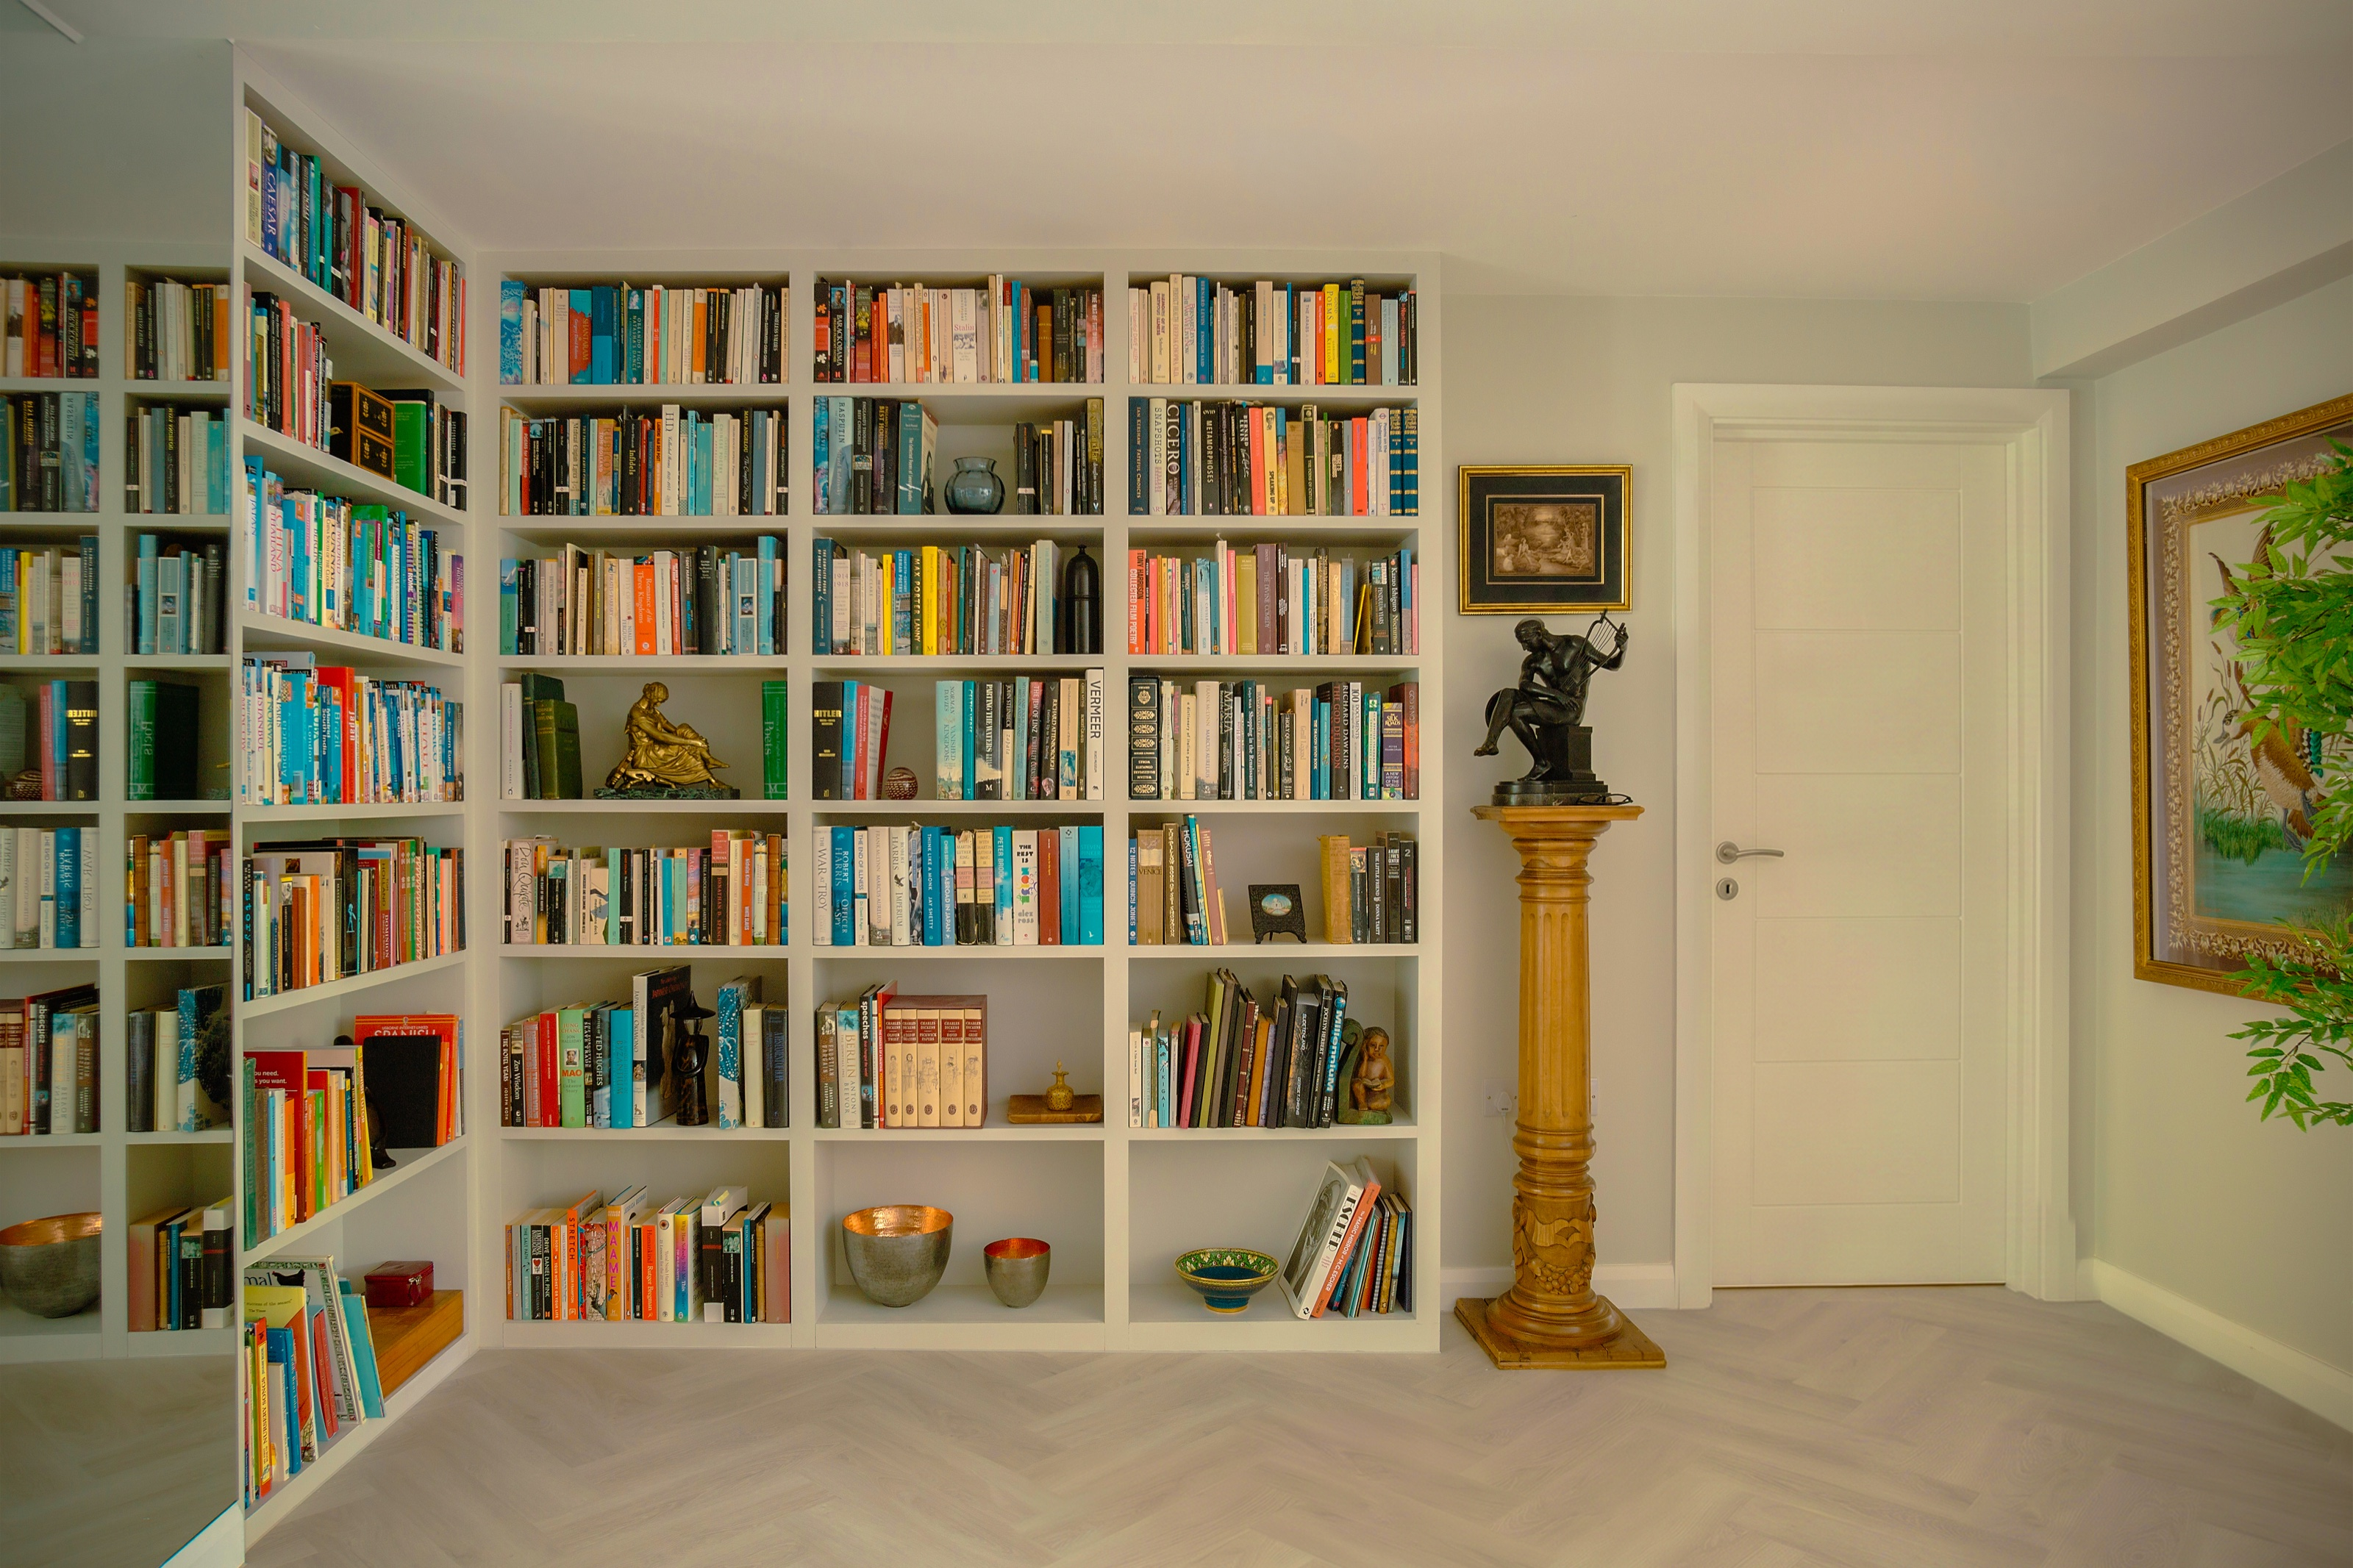
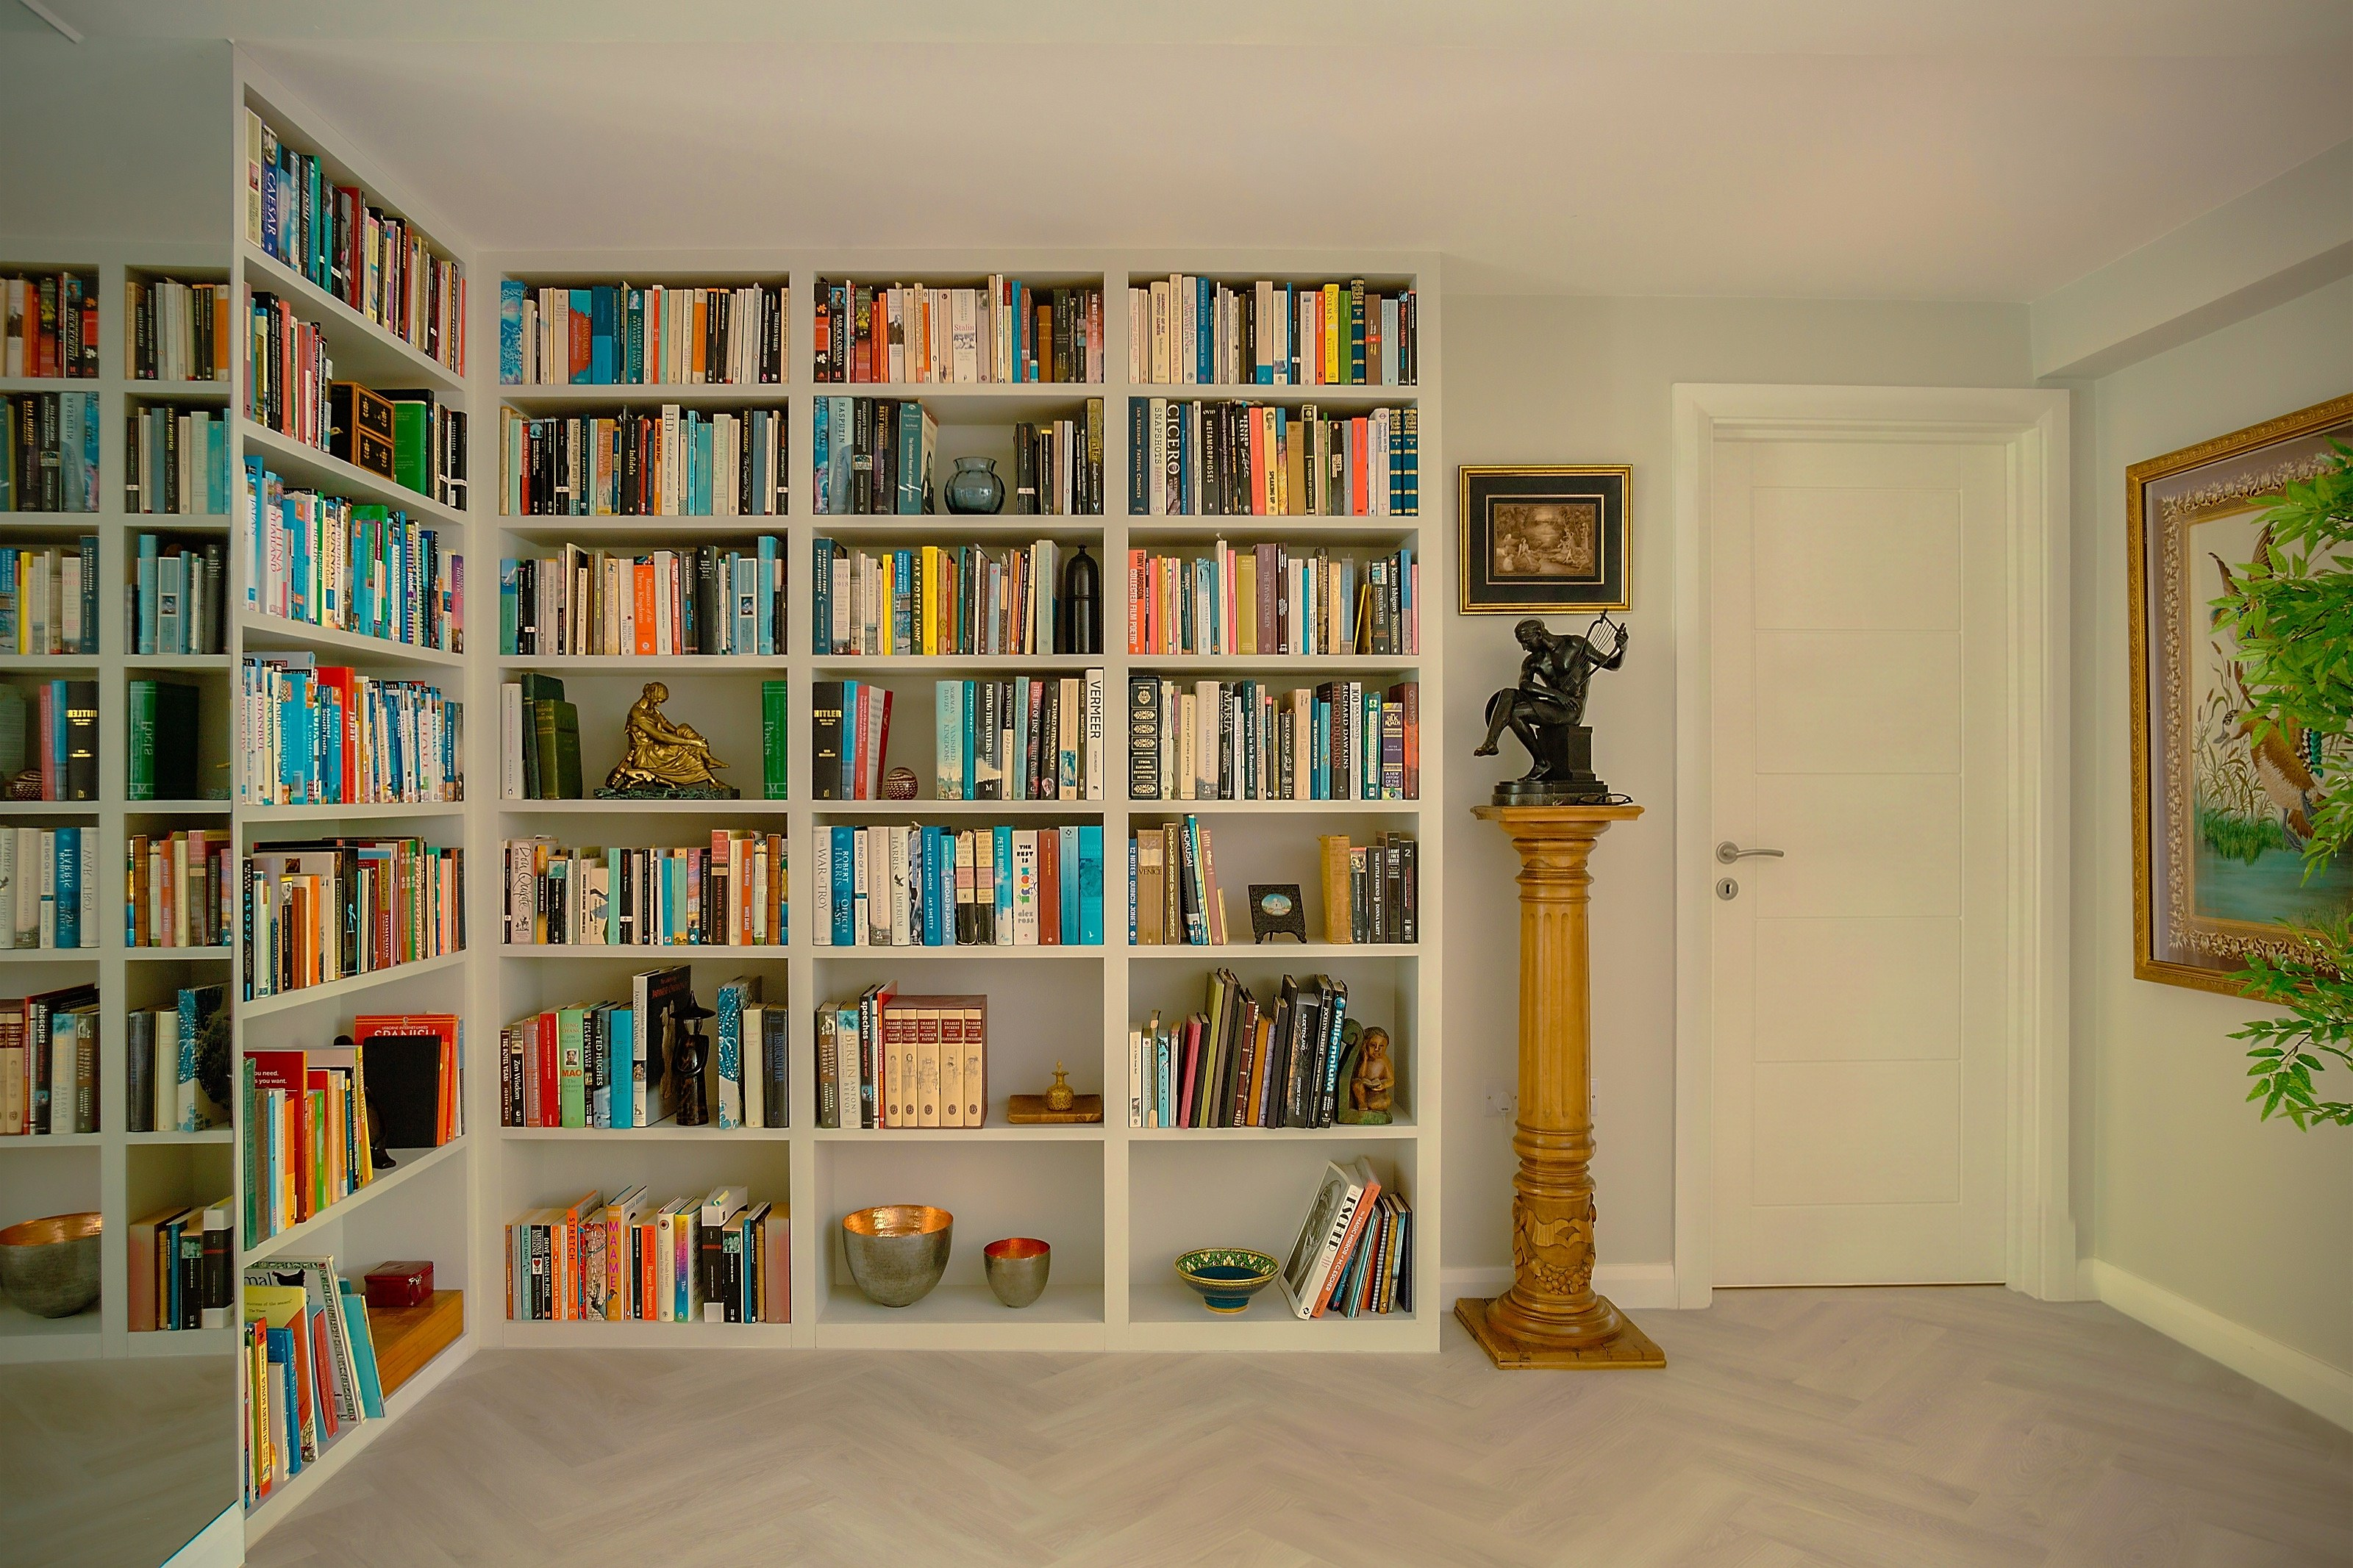
Add team headshots (Pat, Shane, Phil); upscale + edge-aware sharpen site images

diff --git a/app/(site)/page.tsx b/app/(site)/page.tsx
@@ -3,7 +3,7 @@ import Link from "next/link";
 
 import HomeChrome from "@/app/components/HomeChrome";
 import Reveal from "@/app/components/Reveal";
-import { site } from "@/app/lib/site";
+import { site, team } from "@/app/lib/site";
 import { client } from "@/sanity/lib/client";
 import { urlFor } from "@/sanity/lib/image";
 import { PROJECTS_QUERY } from "@/sanity/lib/queries";
@@ -141,38 +141,44 @@ export default async function HomePage() {
       {/* Opaque paper layer above the sticky slogan — covers it during its
           final release so it never pops out below the last project. */}
       <section
-        className={`${PAD} relative z-10 flex min-h-[90vh] flex-col justify-center bg-background py-24`}
+        className={`${PAD} relative z-10 bg-background py-24 sm:py-32`}
       >
-        <div className="grid grid-cols-1 items-start gap-4 sm:gap-6 lg:grid-cols-12">
-          <Reveal className="lg:col-span-7 lg:col-start-1">
-            <div className="relative aspect-[16/11] overflow-hidden">
-              <Image
-                src="/img/about.jpg"
-                alt="Open-plan kitchen extension with Crittall doors"
-                fill
-                sizes="(max-width: 1024px) 100vw, 60vw"
-                className="object-cover"
-              />
-            </div>
-          </Reveal>
-          <Reveal className="lg:col-span-4 lg:col-start-9">
-            <p className="label">The people</p>
-            <h2 className="serif mt-5 text-3xl leading-[1.15] sm:text-4xl">
+        <Reveal>
+          <p className="label">The people</p>
+          <div className="mt-6 grid grid-cols-1 gap-x-6 gap-y-6 lg:grid-cols-12 lg:items-end">
+            <h2 className="serif text-3xl leading-[1.12] sm:text-5xl lg:col-span-7">
               A family-run team that treats your home like our own.
             </h2>
-            <p className="mt-7 text-sm leading-relaxed text-muted">
+            <p className="text-sm leading-relaxed text-muted lg:col-span-4 lg:col-start-9">
               We&apos;re {site.name} — a design and build company based in
               Greater London. From the first conversation to the finishing
               touches you deal with one team, responsible for the whole project.
             </p>
-            <Link
-              href="/about"
-              className="mt-7 inline-block text-sm link-underline"
-            >
-              More about us
-            </Link>
-          </Reveal>
+          </div>
+        </Reveal>
+
+        <div className="mt-16 grid grid-cols-1 gap-6 sm:grid-cols-3 sm:gap-8">
+          {team.map((m) => (
+            <Reveal key={m.name}>
+              <div className="relative aspect-[5/6] overflow-hidden bg-line">
+                <Image
+                  src={m.img}
+                  alt={m.name}
+                  fill
+                  sizes="(max-width: 640px) 100vw, 33vw"
+                  className="object-cover"
+                />
+              </div>
+              <p className="serif mt-4 text-xl">{m.name}</p>
+            </Reveal>
+          ))}
         </div>
+
+        <Reveal>
+          <Link href="/about" className="mt-12 inline-block text-sm link-underline">
+            More about us
+          </Link>
+        </Reveal>
       </section>
 
     </>

diff --git a/app/lib/site.ts b/app/lib/site.ts
@@ -19,6 +19,12 @@ export const nav = [
   { label: "Contact", href: "/contact" },
 ];
 
+export const team = [
+  { name: "Pat", img: "/team/pat.jpg" },
+  { name: "Shane", img: "/team/shane.jpg" },
+  { name: "Phil", img: "/team/phil.jpg" },
+];
+
 export const services = [
   {
     title: "Loft Conversions",